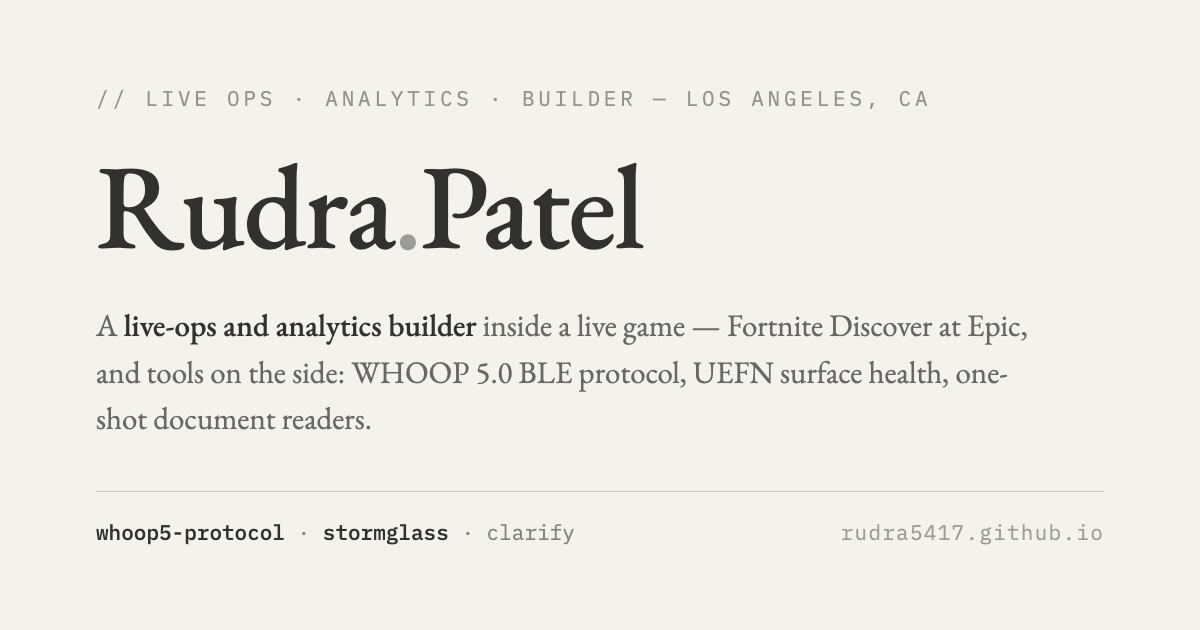
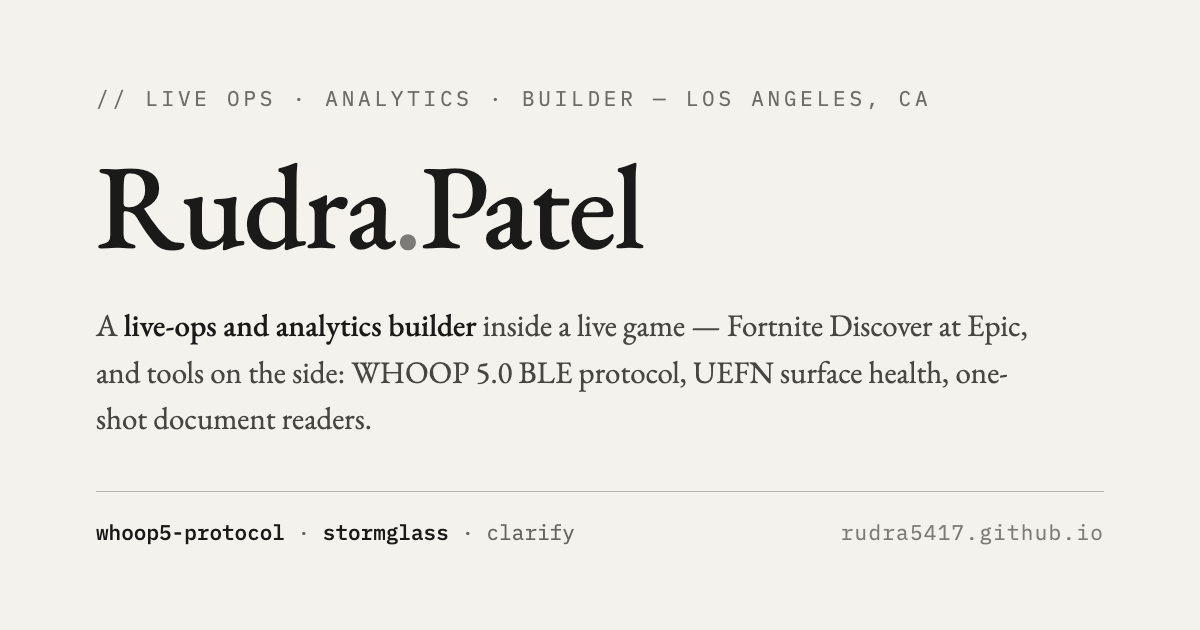
Deepen the ink: primary #1a1a18 (was #313130), muted/faint tiers re-grounded + raised (.68→.78, .46→.6), borders .16→.22; OG card ink darkened to match

diff --git a/index.html b/index.html
@@ -30,11 +30,11 @@
 <style>
   :root {
     --bg:      #f3f2ec;
-    --paper:   #313130;
-    --muted:   rgba(49,49,48,.68);
-    --faint:   rgba(49,49,48,.46);
-    --faint-2: rgba(49,49,48,.3);
-    --border:  rgba(49,49,48,.16);
+    --paper:   #1a1a18;
+    --muted:   rgba(26,26,24,.78);
+    --faint:   rgba(26,26,24,.6);
+    --faint-2: rgba(26,26,24,.42);
+    --border:  rgba(26,26,24,.22);
     --serif: 'EB Garamond', Georgia, 'Times New Roman', serif;
     --mono: 'IBM Plex Mono', ui-monospace, 'SF Mono', Menlo, monospace;
     --caps: 'Cinzel', var(--serif);
@@ -61,8 +61,8 @@
 
   ::-webkit-scrollbar { width: 10px; }
   ::-webkit-scrollbar-track { background: var(--bg); }
-  ::-webkit-scrollbar-thumb { background: rgba(49,49,48,.3); border-radius: 8px; border: 2px solid var(--bg); }
-  ::-webkit-scrollbar-thumb:hover { background: rgba(49,49,48,.42); }
+  ::-webkit-scrollbar-thumb { background: rgba(26,26,24,.38); border-radius: 8px; border: 2px solid var(--bg); }
+  ::-webkit-scrollbar-thumb:hover { background: rgba(26,26,24,.5); }
 
   /* ── nav ── */
   header { border-bottom: 1px solid var(--border); }
@@ -79,7 +79,7 @@
   .hero::before {
     content: ""; position: absolute; top: -18%; left: 50%; transform: translateX(-50%);
     width: min(920px, 100vw); height: 560px; pointer-events: none;
-    background: radial-gradient(60% 55% at 50% 38%, rgba(49,49,48,.05), transparent 70%);
+    background: radial-gradient(60% 55% at 50% 38%, rgba(26,26,24,.06), transparent 70%);
   }
   .kicker { font-family: var(--mono); font-size: 12px; letter-spacing: .16em; text-transform: uppercase; color: var(--faint); }
   h1 {
@@ -116,7 +116,7 @@
     position: relative;
   }
   .work-row:nth-last-of-type(1) { border-bottom: 1px solid var(--border); }
-  .work-row:hover { background: rgba(49,49,48,.05); }
+  .work-row:hover { background: rgba(26,26,24,.06); }
   .work-row .no { font-family: var(--mono); font-size: 12px; color: var(--faint); flex: 0 0 36px; }
   .work-row .body { flex: 1; min-width: 0; }
   .work-row .body .t { font-weight: 500; font-size: 21px; font-family: var(--serif); letter-spacing: -.005em; }
@@ -173,7 +173,7 @@
     position: fixed; bottom: 20px; left: 50%; transform: translateX(-50%);
     font-family: var(--mono); font-size: 11.5px; letter-spacing: .18em; color: var(--paper);
     opacity: 0; transition: opacity .6s var(--ease); pointer-events: none;
-    text-shadow: 0 0 16px rgba(49,49,48,.35); z-index: 99;
+    text-shadow: 0 0 16px rgba(26,26,24,.4); z-index: 99;
   }
   #sys.on { opacity: 1; }
 
